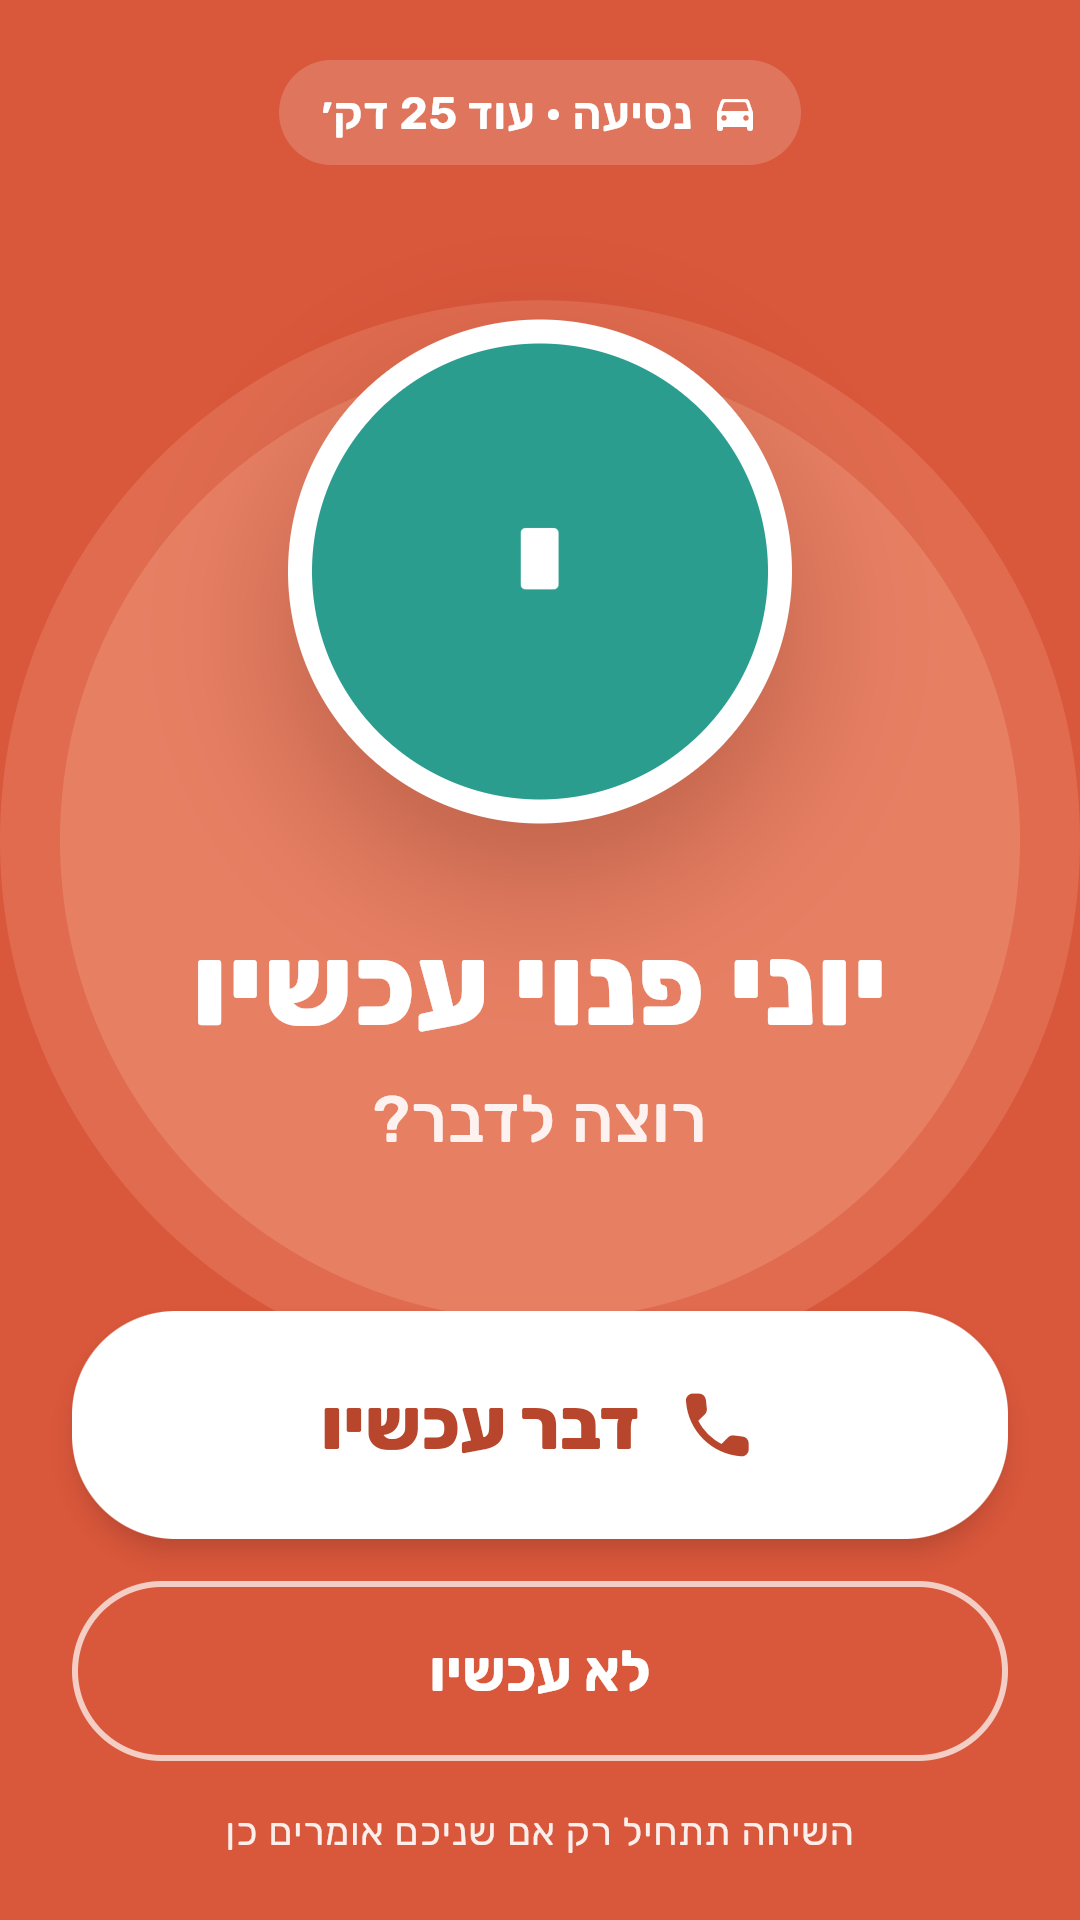
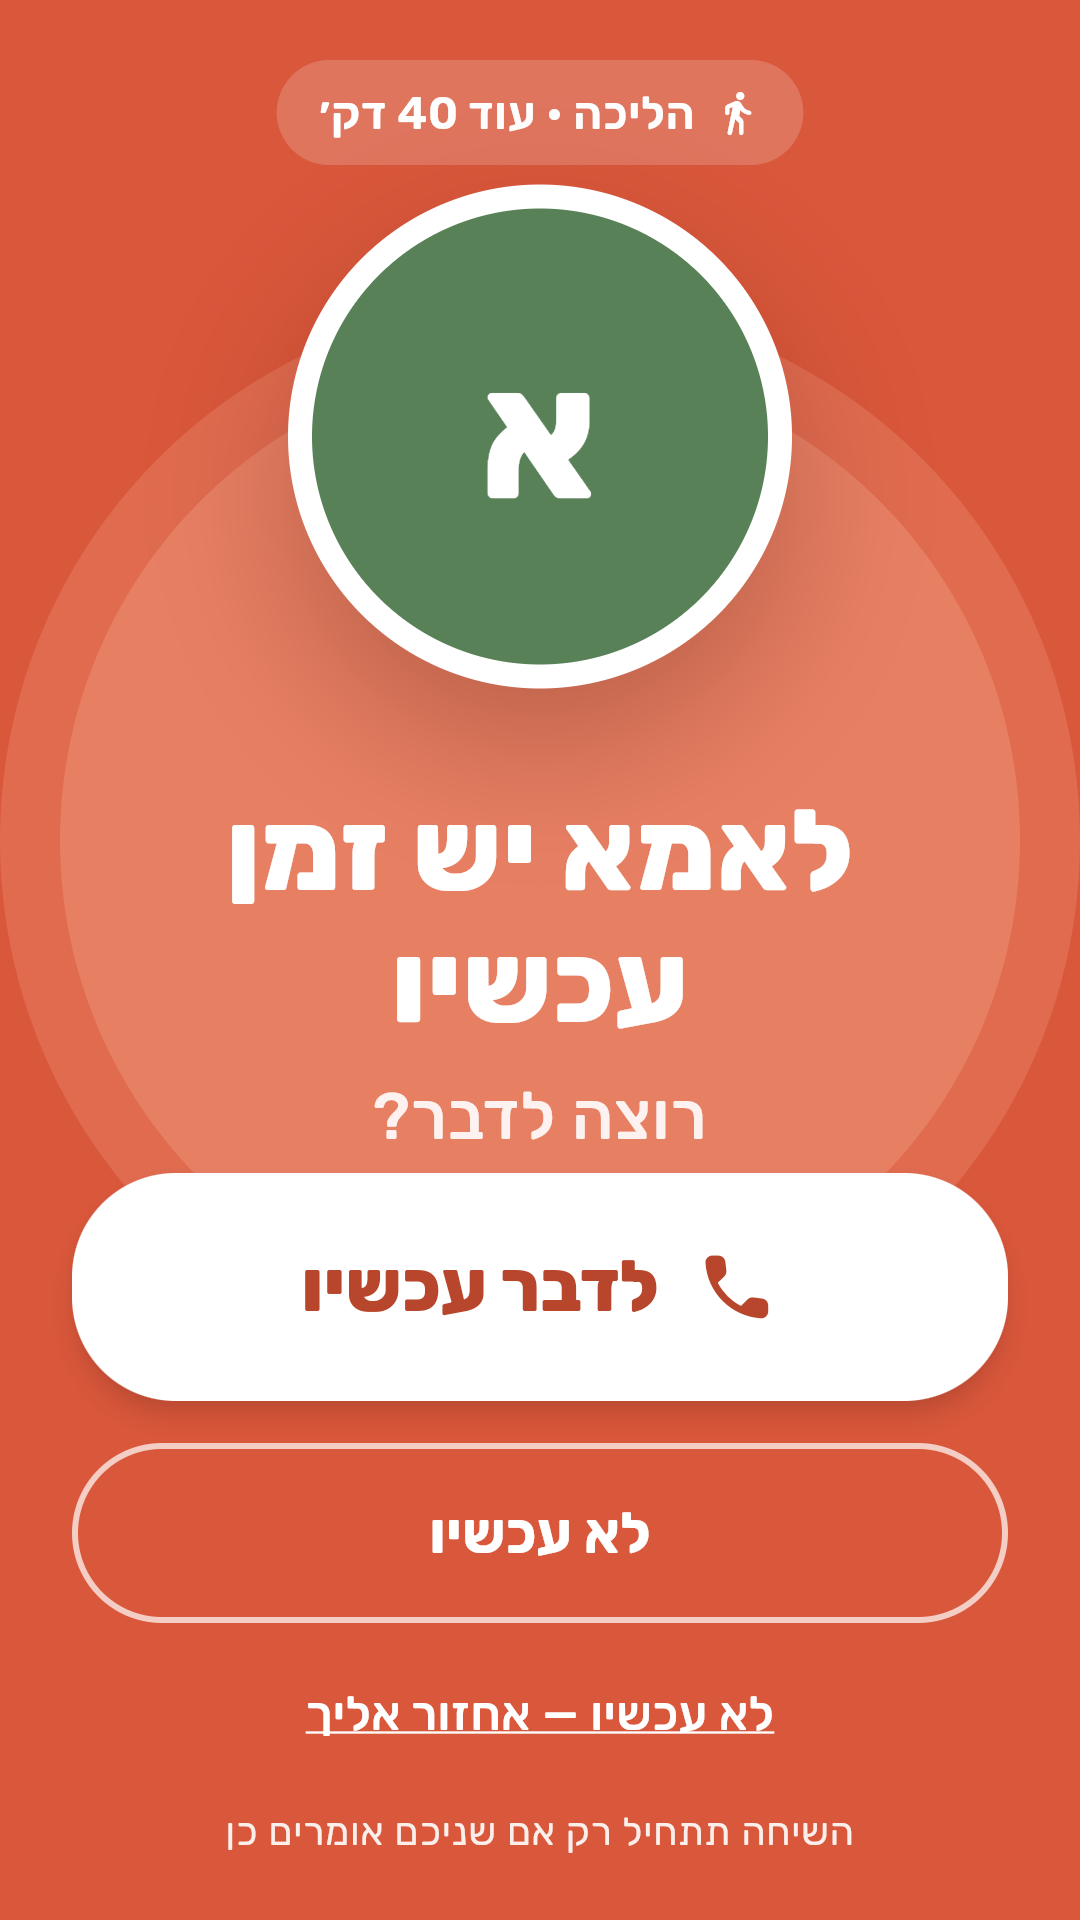
Store images with the DriveBond name: new feature graphic, more made-up friends (driving, break, walking, not available), real call screen
Claude-Session: https://claude.ai/code/session_019HnZgoGDmsrboiZZSe31zJ

diff --git a/store_assets/feature.html b/store_assets/feature.html
@@ -1,0 +1,27 @@
+<!doctype html><html lang="he"><head><meta charset="utf-8">
+<style>
+html,body{margin:0}
+body{width:1024px;height:500px;background:#D9573B;font-family:sans-serif;color:#fff;overflow:hidden;position:relative}
+.c1{position:absolute;width:560px;height:560px;border-radius:50%;background:#E8674A;left:-160px;top:-200px}
+.c2{position:absolute;width:320px;height:320px;border-radius:50%;background:#2F6B57;left:330px;bottom:-230px;opacity:.9}
+.card{position:absolute;left:44px;top:70px;width:330px;background:#FFF7EF;border-radius:28px;padding:22px 24px;box-shadow:0 20px 40px rgba(0,0,0,.18);color:#262636;direction:rtl}
+.card h3{margin:0 0 14px;font-size:24px}
+.row{display:flex;align-items:center;gap:14px;margin:12px 0}
+.av{width:52px;height:52px;border-radius:50%;display:flex;align-items:center;justify-content:center;color:#fff;font-weight:800;font-size:24px;position:relative;flex:none}
+.on{box-shadow:0 0 0 3px #FFF7EF,0 0 0 6px #3E9E72}
+.on:after{content:'';position:absolute;width:13px;height:13px;border-radius:50%;background:#3E9E72;border:3px solid #FFF7EF;bottom:-3px;right:-3px}
+.nm{font-weight:700;font-size:21px}
+.st{font-size:17px;color:#2F6B57}
+.off .st{color:#8A8796}
+.txt{position:absolute;right:60px;top:150px;text-align:right}
+h1{font-size:84px;margin:0;font-weight:800;direction:ltr;text-align:right;letter-spacing:-1px}
+p{font-size:38px;margin:10px 0 0;direction:rtl;font-weight:600}
+.sub{font-size:24px;opacity:.9;font-weight:400;margin-top:14px}
+</style></head><body><div class="c1"></div><div class="c2"></div>
+<div class="card"><h3>מי פנוי עכשיו</h3>
+<div class="row"><div class="av on" style="background:#2A9D8F">מ</div><div><div class="nm">מיכל</div><div class="st">🚗 בנסיעה · עוד 25 דק׳</div></div></div>
+<div class="row"><div class="av on" style="background:#5A8259">א</div><div><div class="nm">איתי</div><div class="st">☕ בהפסקה · עוד 15 דק׳</div></div></div>
+<div class="row off"><div class="av" style="background:#F2A35E">ר</div><div><div class="nm">רוני</div><div class="st">אין זמינות כרגע</div></div></div>
+</div>
+<div class="txt"><h1>DriveBond</h1><p>זמן מת? שיחה טובה.</p><div class="sub">כששניכם פנויים — מדברים, בלי לתאם.</div></div>
+</body></html>

diff --git a/lib/debug/real_preview.dart b/lib/debug/real_preview.dart
@@ -26,12 +26,15 @@ Future<void> main() async {
   final server = MemoryServer();
   final me = MemoryRealBackend(server);
   final store = MemoryLocalStore()
-    ..values['real.contactsSyncedAt'] = DateTime.now().toIso8601String();
+    ..values['real.contactsSyncedAt'] = DateTime.now().toIso8601String()
+    ..values['real.widgetTip.v1'] = 'seen';
 
+  final friends = <String, MemoryRealBackend>{};
   Future<MemoryRealBackend> friend(String name, Gender g, String phone) async {
     final b = MemoryRealBackend(server);
     await b.signIn(name, g);
     await b.setMyPhone(phone);
+    friends[b.userId!] = b;
     return b;
   }
 
@@ -41,10 +44,18 @@ Future<void> main() async {
     final yoni = await friend('יוני', Gender.male, '0532222222');
     final mom = await friend('אמא', Gender.female, '0543333333');
     final dana = await friend('דנה', Gender.female, '0504444444');
-    for (final f in [yoni, mom, dana]) {
+    // Friends who aren't free right now (made-up names).
+    final omer = await friend('עומר', Gender.male, '0525555555');
+    final shira = await friend('שירה', Gender.female, '0536666666');
+    for (final f in [yoni, mom, dana, omer, shira]) {
       final inv = await me.createInvitation();
       await f.acceptInvitation(inv.token);
     }
+    await me.setRating(mom.userId!, 5);
+    await me.setRating(yoni.userId!, 4);
+    await me.setRating(dana.userId!, 4);
+    await me.setRating(omer.userId!, 3);
+    await me.setRating(shira.userId!, 2);
     await me.saveCircle(
       RealCircle(id: '', name: 'משפחה', quick: true, memberIds: {mom.userId!}),
     );
@@ -101,12 +112,10 @@ Future<void> main() async {
   }
   if ((screen == 'connected' || screen == 'feedback') && offer != null) {
     await c.respond(offer, accept: true);
-    final other = server.offers.values.first;
-    other
-      ..status = OfferStatus.accepted
-      ..aAccepted = true
-      ..bAccepted = true;
+    final otherId = offer.userA == me.userId ? offer.userB : offer.userA;
+    await friends[otherId]!.answerOffer(offer.id, accept: true);
     await c.refresh();
+    await Future<void>.delayed(const Duration(milliseconds: 300));
     if (screen == 'feedback') c.finishCall();
   }
 
